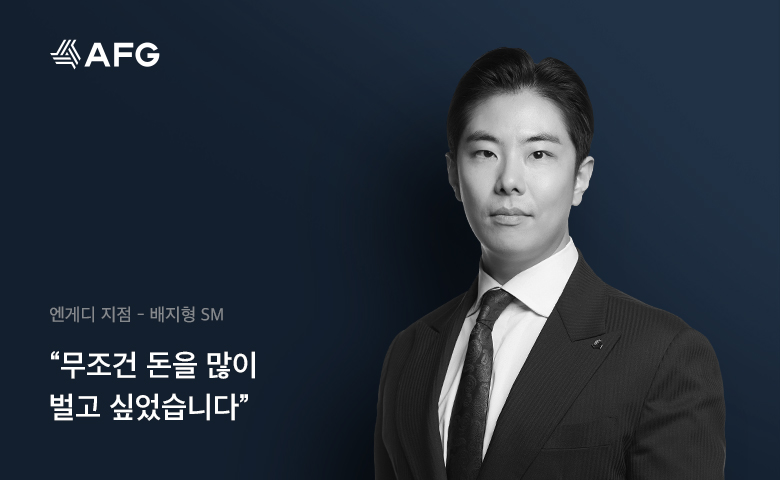
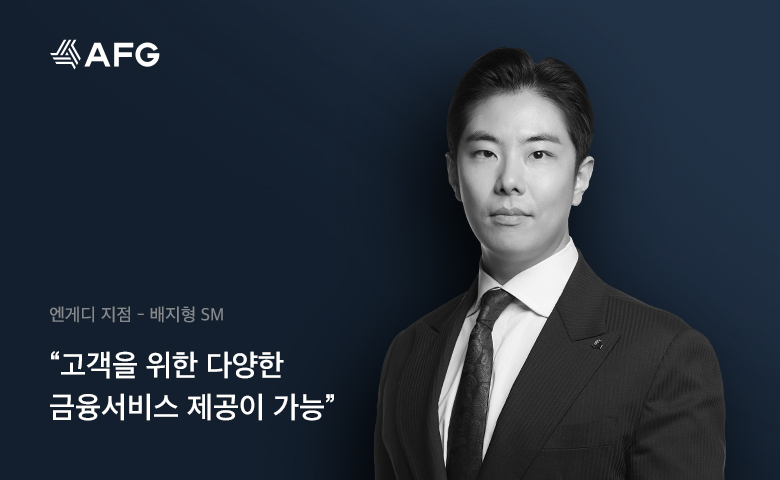
company

Changed region(s): [[0.0615, 0.7188, 0.4308, 0.875]]

diff --git a/pc-dist/views/sub/company.html b/pc-dist/views/sub/company.html
@@ -234,24 +234,24 @@
     <div class="scene-wrap" id="scene-wrap01">
       <div class="sec02-bg-wrap">
         <p>
-          <span class="txt1">어센틱플래너는 다양한 금융분야의 전문가로서, 고객의 라이프 스타일에 맞는</span>
-          <span class="txt2">어센틱플래너는 다양한 금융분야의 전문가로서, 고객의 라이프 스타일에 맞는</span>
+          <span class="txt1">어센틱플래너는 고객의 라이프스타일에 최적화된</span>
+          <span class="txt2">어센틱플래너는 고객의 라이프스타일에 최적화된</span>
         </p>
         <p>
-          <span class="txt1">솔루션을 제공하는 어센틱만의 전문 플래너입니다. 빠르게 급변하는 금융시장</span>
-          <span class="txt2">솔루션을 제공하는 어센틱만의 전문 플래너입니다. 빠르게 급변하는 금융시장</span>
+          <span class="txt1">솔루션을 제공하는 어센틱금융그룹의 특화된 금융 전문가 입니다.</span>
+          <span class="txt2">솔루션을 제공하는 어센틱금융그룹의 특화된 금융 전문가 입니다.</span>
         </p>
         <p>
-          <span class="txt1">속에서 가장 트렌디하고 명확한 정보를 바탕으로, 고객의 신뢰를 핵심가치로 삼아</span>
-          <span class="txt2">속에서 가장 트렌디하고 명확한 정보를 바탕으로, 고객의 신뢰를 핵심가치로 삼아</span>
+          <span class="txt1">빠르게 급변하는 금융시장 속에서 가장 트렌디하고 명확한 정보를 바탕으로</span>
+          <span class="txt2">빠르게 급변하는 금융시장 속에서 가장 트렌디하고 명확한 정보를 바탕으로</span>
         </p>
         <p>
-          <span class="txt1">고객에게 행복하고 안전한 금융생활의 경험을 선사하는</span>
-          <span class="txt2">고객에게 행복하고 안전한 금융생활의 경험을 선사하는</span>
+          <span class="txt1">고객의 성장과 신뢰를 핵심가치로 삼아, 고객에게 행복하고 안전한</span>
+          <span class="txt2">고객의 성장과 신뢰를 핵심가치로 삼아, 고객에게 행복하고 안전한</span>
         </p>
         <p>
-          <span class="txt1">인생의 동반자 역할을 합니다.</span>
-          <span class="txt2">인생의 동반자 역할을 합니다.</span>
+          <span class="txt1">금융생활을 선사하는 인생의 동반자 역할을 합니다.</span>
+          <span class="txt2">금융생활을 선사하는 인생의 동반자 역할을 합니다.</span>
         </p>
       </div>
     </div>
@@ -279,7 +279,7 @@
             </div>
             <ul class="sec02-text-wrap">
               <li>도전적인 목표 설정</li>
-              <li>어센틱만의 ‘identity’ 확립</li>
+              <li>어센틱만의 ‘IDENTITY’ 확립</li>
               <li>어센틱만의 ‘차별성’ 유지</li>
               <li>다양한 커리어 패스</li>
               <li>투명한 윤리 경영</li>
@@ -401,7 +401,7 @@
                 </div>
                 <ul>
                   <li>
-                    <div class="date">2021. 10</div>
+                    <div class="date">2021. 10</div>ㅊ
                     <div class="txt">김해 스튜디오 오픈(김해)</div>
                   </li>
                   <li>
@@ -811,7 +811,8 @@
     const scene04Height = scene04.innerHeight();
     const leftBox = $('#company-wrap .sec04 .sec04-bg-wrap .inner .sec04-content-wrap .left-img-wrap');
     const rightBox = $('#company-wrap .sec04 .sec04-bg-wrap .inner .sec04-content-wrap .right-img-wrap');
-    const slideBox = $('#company-wrap .sec04 .sec04-bg-wrap .inner .sec04-content-wrap .slide-img-wrap')
+    const slideBox = $('#company-wrap .sec04 .sec04-bg-wrap .inner .sec04-content-wrap .slide-img-wrap');
+    const img = $('#company-wrap .sec04 .sec04-bg-wrap .inner .sec04-content-wrap .slide-img-wrap img');
     const scene04Text = $('#company-wrap .sec04 .sec04-bg-wrap .inner .sec04-content-wrap h6');
     const op1 = (windowScroll - (scene04Top + (scene04Height * 0.05))) / (scene04Height * 0.05) * (1 - 0) + 0;
     const tr1 = (windowScroll - (scene04Top + (scene04Height * 0.1))) / (scene04Height * 0.7) * (-600 - 100) + 100;
@@ -840,6 +841,12 @@
     } else if (windowScroll < scene04Top + (scene04Height * 0.1)) {
       slideBox.css('transform', `translateY(100vh)`);
     }
+
+    if (window.innerHeight <= 1200) {
+      img.css('margin-bottom', '80vh');
+    }
+
+    
 
 
     // History Slide

diff --git a/mo-dist/views/sub/company.html b/mo-dist/views/sub/company.html
@@ -227,16 +227,16 @@
       <div class="sec03-bg"></div>
       <span>AFG MISSION</span>
       <p>
-        어센틱플래너는 다양한 금융분야의 <br>
-        전문가로서, 고객의 라이프 스타일 <br>
-        에 맞는 솔루션을 제공하는<br>
-        어센틱만의 전문 플래너입니다.<br>
+        어센틱플래너는 고객의 라이프<br>
+        스타일에 최적화된 솔루션을<br> 
+        제공하는 어센틱금융그룹의 특화된<br>
+        금융 전문가 입니다.<br>
         빠르게 급변하는 금융시장 속에서<br>
-        가장 트렌디하고 명확한 정보를<br>
-        바탕으로, 고객의 신뢰를<br>
-        핵심가치로 삼아 고객에게 행복하고 <br>
-        안전한 금융생활의 경험을 선사하는<br>
-        인생의 동반자 역할을 합니다.
+        가장 트렌디하고 명확한 정보를<br> 
+        바탕으로 고객의 성장과 신뢰를<br>
+        핵심가치로 삼아, 고객에게<br> 
+        행복하고 안전한 금융생활을 선사<br>
+        하는 인생의 동반자 역할을 합니다.
       </p>
     </div>
   </section>
@@ -253,7 +253,7 @@
           </div>
           <ul class="sec04-text-wrap">
             <li>도전적인 목표 설정</li>
-            <li>어센틱만의 ‘identity’ 확립</li>
+            <li>어센틱만의 ‘IDENTITY’ 확립</li>
             <li>어센틱만의 ‘차별성’ 유지</li>
             <li>다양한 커리어 패스</li>
             <li>투명한 윤리 경영</li>

diff --git a/pc-dist/views/sub/recruit.html b/pc-dist/views/sub/recruit.html
@@ -216,8 +216,8 @@
                 <div class="inner">
                     <div class="sub-tit-box" data-aos="fade-up" data-aos-anchor-placement="top-bottom" data-aos-easing="ease-out-cubic" data-aos-duration="750">
                         <h2>MEET OUR PEOPLE</h2>
-                        <p>어센틱금융그룹의 업무 환경과 다양한 장점, AFG시스템을<br />
-                            현재 근무하고 있는 어센틱플래너의 이야기를 통해 들어보세요.</p>
+                        <p>어센틱금융그룹의 업무 환경과 어센틱플래너의 성장을 받쳐줄 다양한 시스템 등<br> 
+                            현재 근무하고 있는 어센틱플래너의 스토리를 통해 확인해 보세요.  </p>
                     </div>
                     <a href="https://www.youtube.com/channel/UCVqm7z5vVda537C1U1xDNpw/videos" target="_blank" data-aos="fade-up" data-aos-anchor-placement="top-bottom" data-aos-easing="ease-out-cubic" data-aos-duration="750"
                         class="youtube-btn">View all videos</a>

diff --git a/mo-dist/views/sub/recruit.html b/mo-dist/views/sub/recruit.html
@@ -220,11 +220,6 @@
           </a>
         </h2>
         <p>
-          어센틱금융그룹의 업무 환경과 어센틱
-          플래너의 성장을 받쳐줄 다양한 시스템 등
-          현재 근무하고 있는 어센틱플래너의
-          스토리를 통해 확인해 보세요. 
-
           어센틱금융그룹의 업무 환경과 어센틱 <br />
           플래너의 성장을 받쳐줄 다양한 시스템 등 <br />
           현재 근무하고 있는 어센틱플래너의 <br />

diff --git a/pc-dist/css/style.css b/pc-dist/css/style.css
@@ -7339,6 +7339,10 @@ footer .bottom-info .footer-circle .circle {
   font-size: 24px;
 }
 
+.sec04-text-wrap {
+  text-transform: uppercase;
+}
+
 #studio-wrap .sec02 .title-map-wrap .text-wrap .dl-wrap dl:not(:last-child) {
   margin-bottom: 15px;
 }
